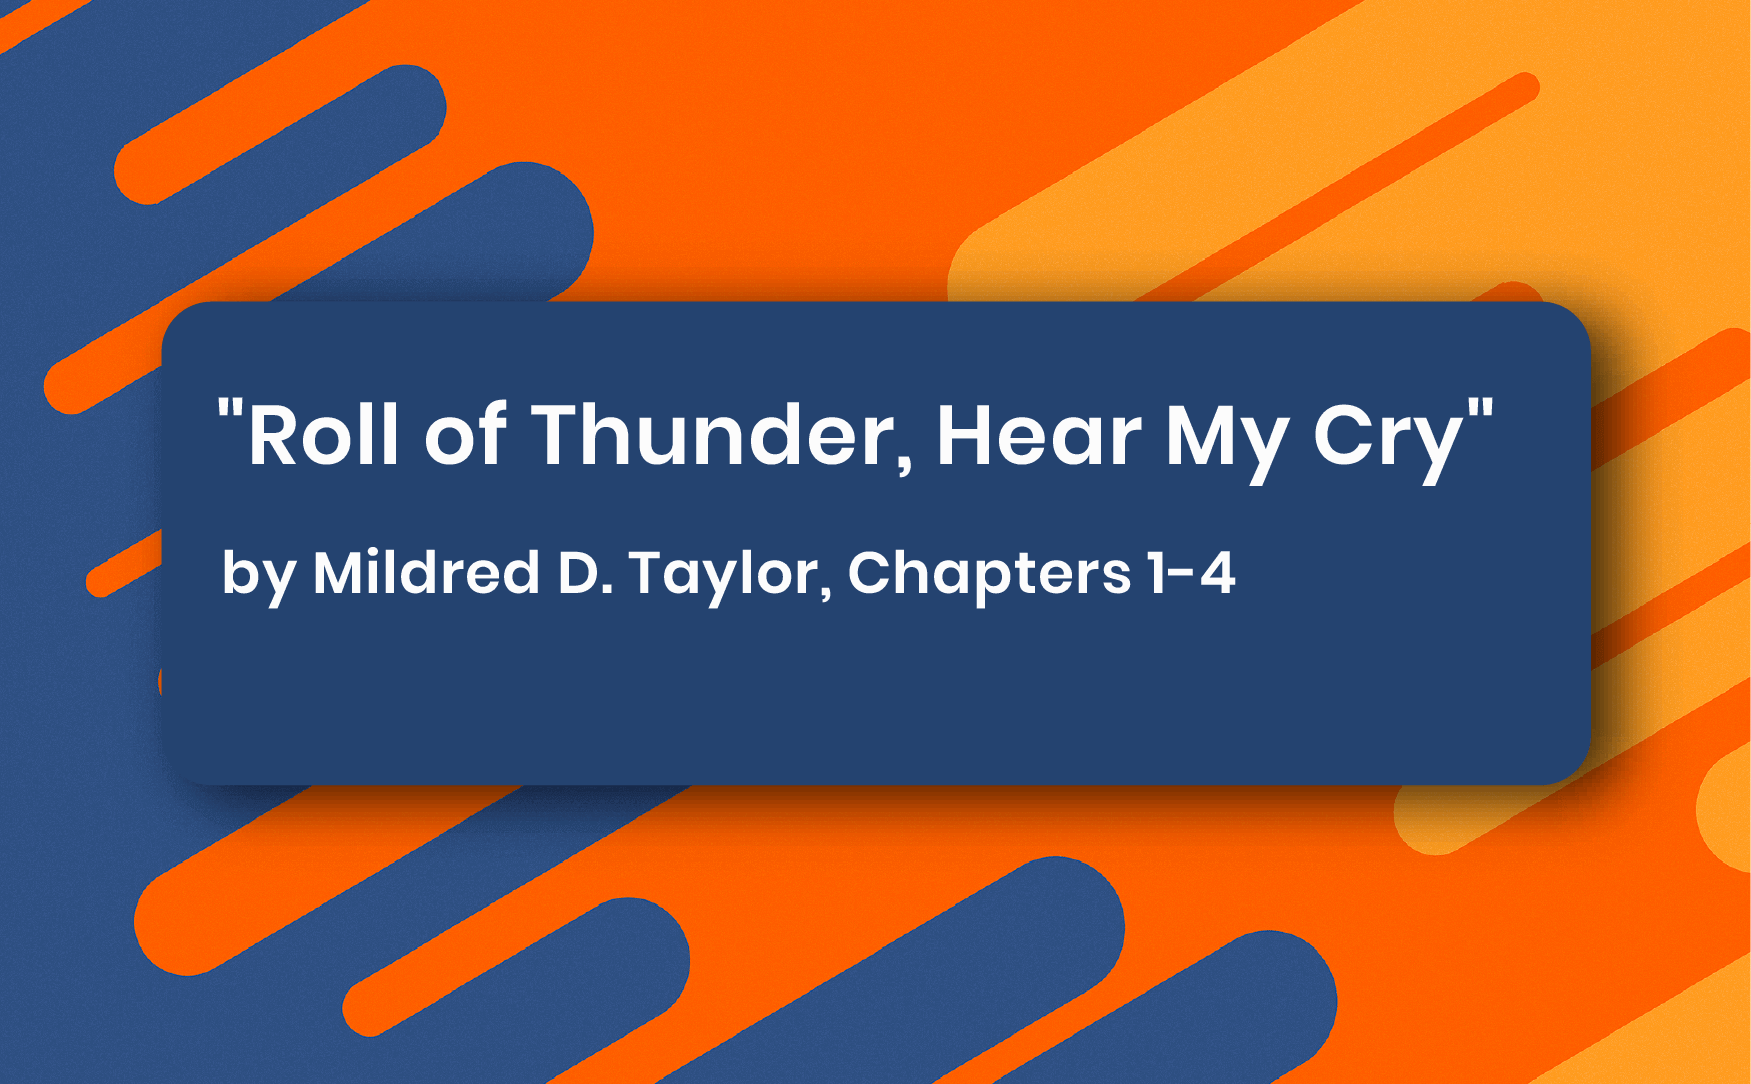
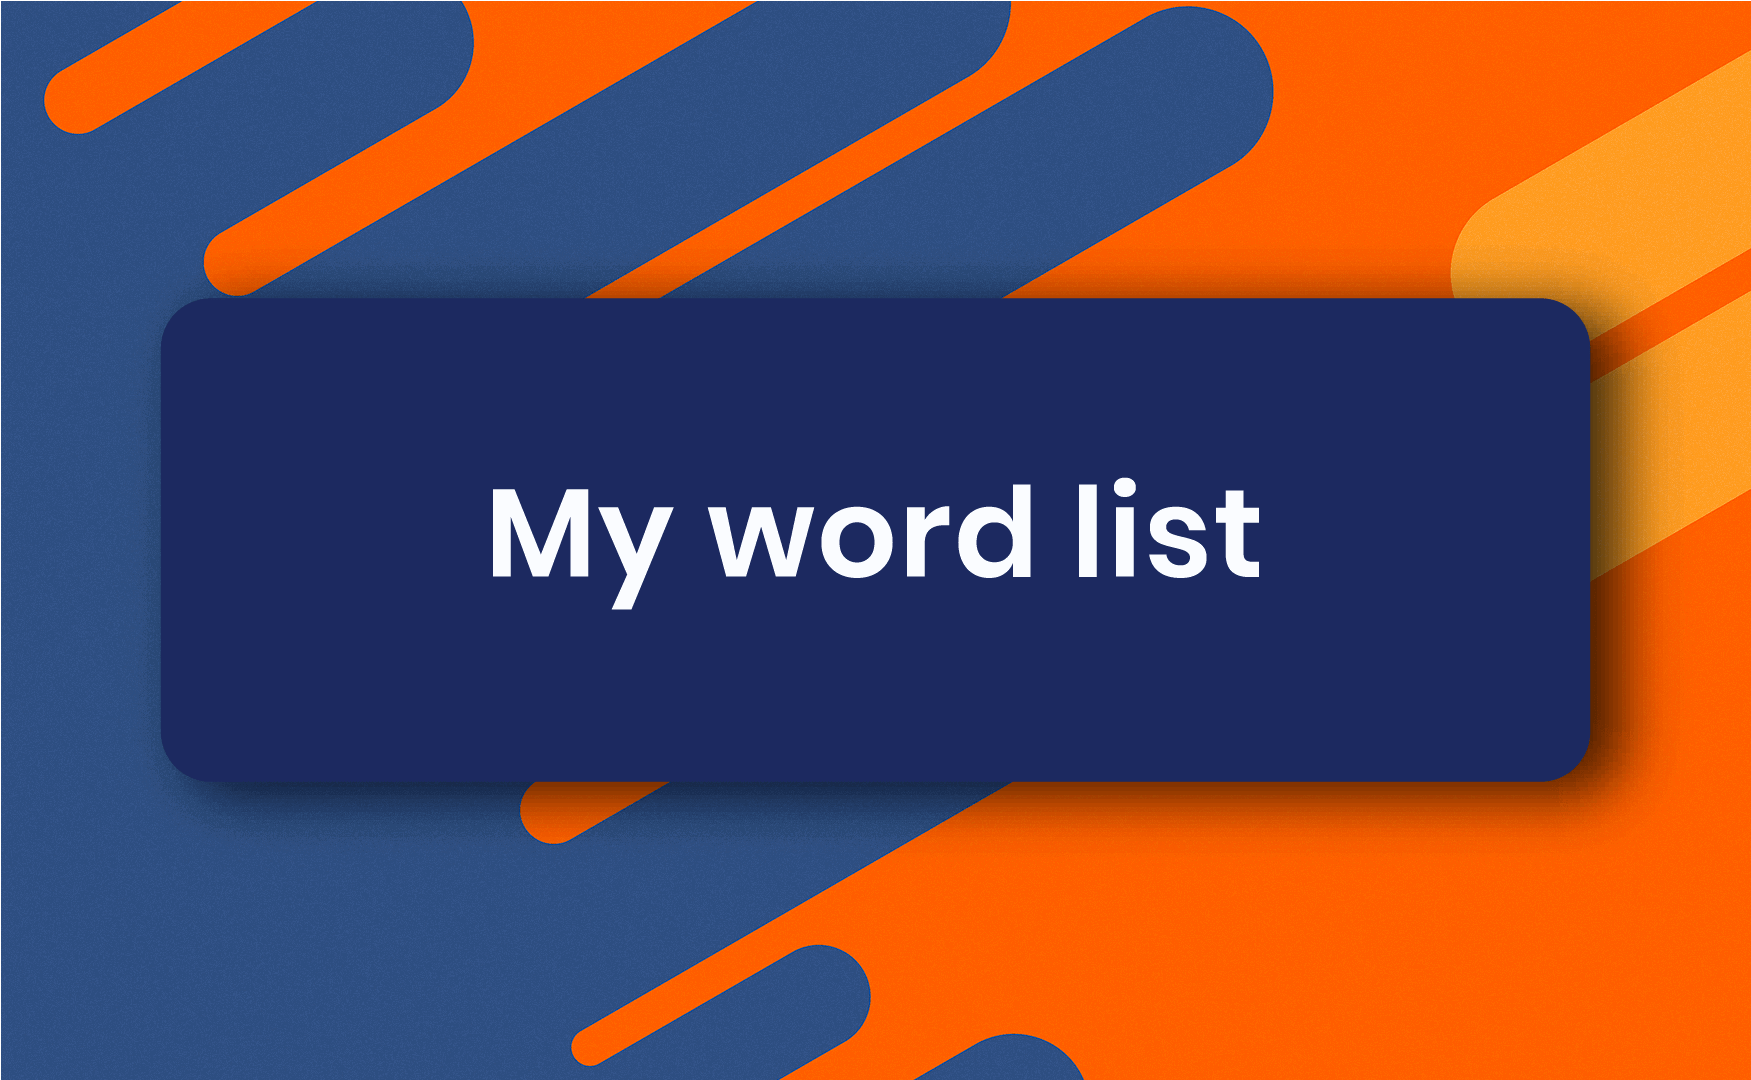
Build

diff --git a/src/screen/Build.vue b/src/screen/Build.vue
@@ -53,7 +53,7 @@
                     <div v-if="msg.length > 0">{{msg}}</div>
                     
                  <el-button type="danger" round  @click="submit" class="sub-button">Upload Word </el-button>
-                 <el-button type="info" @click="checkWords"> Word Collection</el-button>
+                 <el-button type="primary" round @click="checkWords" class="sub-button"> Word Collection</el-button>
                 </el-card>
         </el-col>
     </el-row>
@@ -101,7 +101,7 @@ input, textarea, select, button {
 
 .box-card{
     width: 65%;
-    margin-top: 3%;
+    margin-top: 2%;
 
 }
 .build-header{

diff --git a/src/screen/Catalogue.vue b/src/screen/Catalogue.vue
@@ -56,7 +56,7 @@
             <el-card :body-style="{ padding: '0px' }">
                 <img src="../assets/usercreat5.png" width="100%">
                     <div style="padding: 14px;">
-                      <p>Word set by Linda</p>
+                      <p>My word list</p>
                       <div class="bottom clearfix">
                         
                         <el-button type="danger" round class="button" v-on:click="$router.push('/learning/mywords/1');">Learn vocabularies</el-button>
